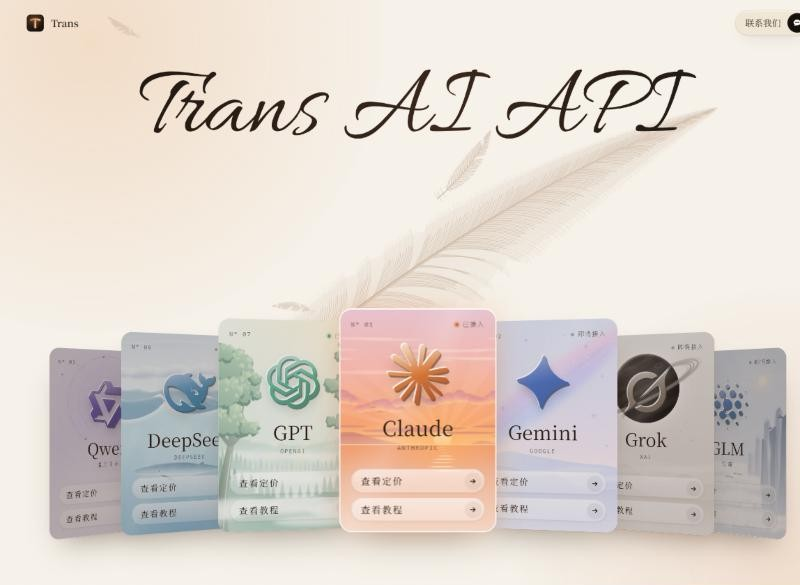
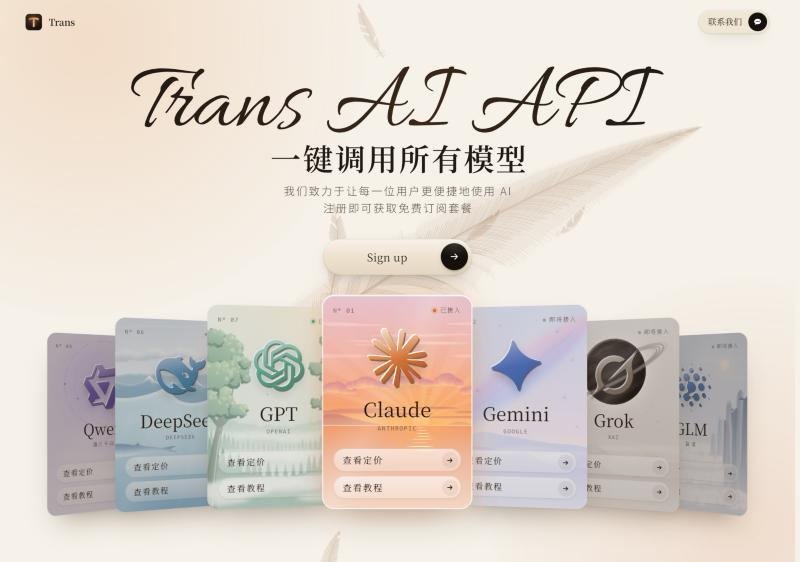
docs: 补充 Trans86 首页/定价/教程截图；演示默认显示示例站 B

diff --git a/index.html b/index.html
@@ -16,8 +16,8 @@
 <body>
   <div class="demo-bar">
     <span>演示数据（匿名化的示例站点）：</span>
-    <button data-site="demo-a" class="on">示例站 A · 57 模型</button>
-    <button data-site="demo-b">示例站 B · 241 模型</button>
+    <button data-site="demo-a">示例站 A · 57 模型</button>
+    <button data-site="demo-b" class="on">示例站 B · 241 模型</button>
   </div>
 
   <!--
@@ -29,7 +29,7 @@
     这里为了演示，把接口指向本地示例数据。
     demo-edit 仅本地演示用（让没有登录的人也能试编辑）：生产环境不要加，管理员身份由 new-api 的 /api/user/self 确认。
   -->
-  <model-plaza demo-edit api="data/demo-a.json" status="data/demo-a-status.json" perf="data/demo-a-perf.json"></model-plaza>
+  <model-plaza demo-edit api="data/demo-b.json" status="data/demo-b-status.json" perf="data/demo-b-perf.json"></model-plaza>
   <script src="plaza.js"></script>
 
   <script>

diff --git a/README.md b/README.md
@@ -212,7 +212,9 @@ python -m http.server 5178
 
 本项目由 **[Trans86.com](https://trans86.com)** 开发并维护，模型广场的扇形卡片设计就来自 Trans86 的首页：
 
-[![Trans86 首页](docs/trans86-home.jpg)](https://trans86.com)
+| 首页 | 模型定价 | 简易教程 |
+|---|---|---|
+| [![Trans86 首页](docs/trans86-home.jpg)](https://trans86.com) | [![Trans86 定价](docs/trans86-pricing.jpg)](https://trans86.com/#pricing) | [![Trans86 教程](docs/trans86-tutorial.jpg)](https://trans86.com/#tutorial) |
 
 > 💡 如果大家有需求，**Trans86 站点本身（包括上图这套首页设计）也可以开源**，欢迎在 [Issues](https://github.com/TransAPI-eng/new-api-model-plaza/issues) 里留言告诉我们。
 
